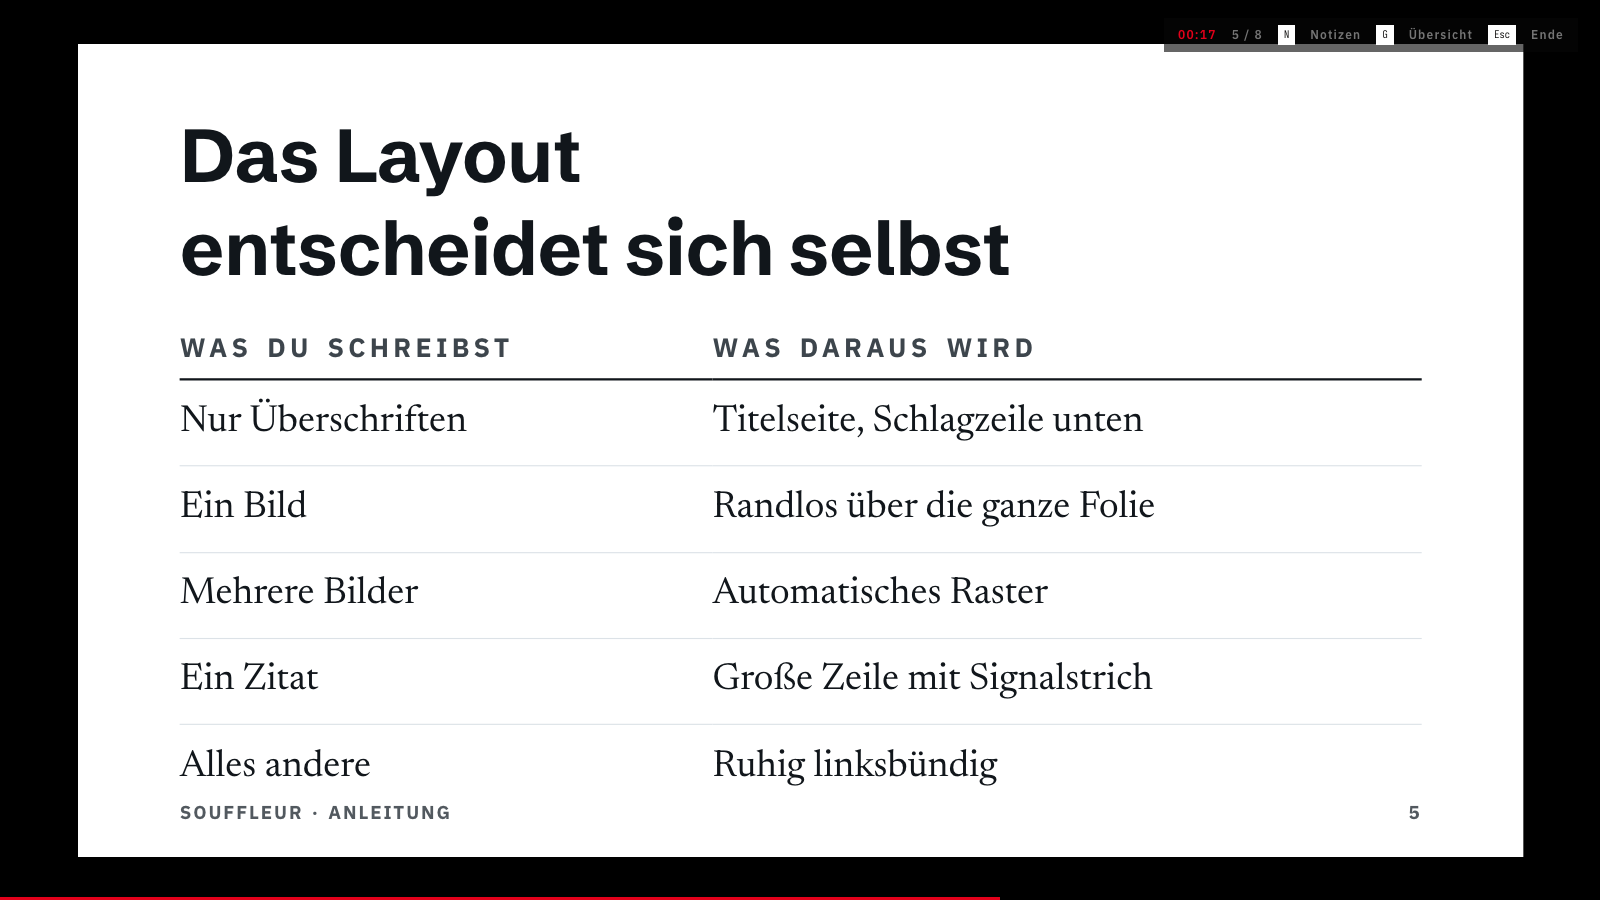
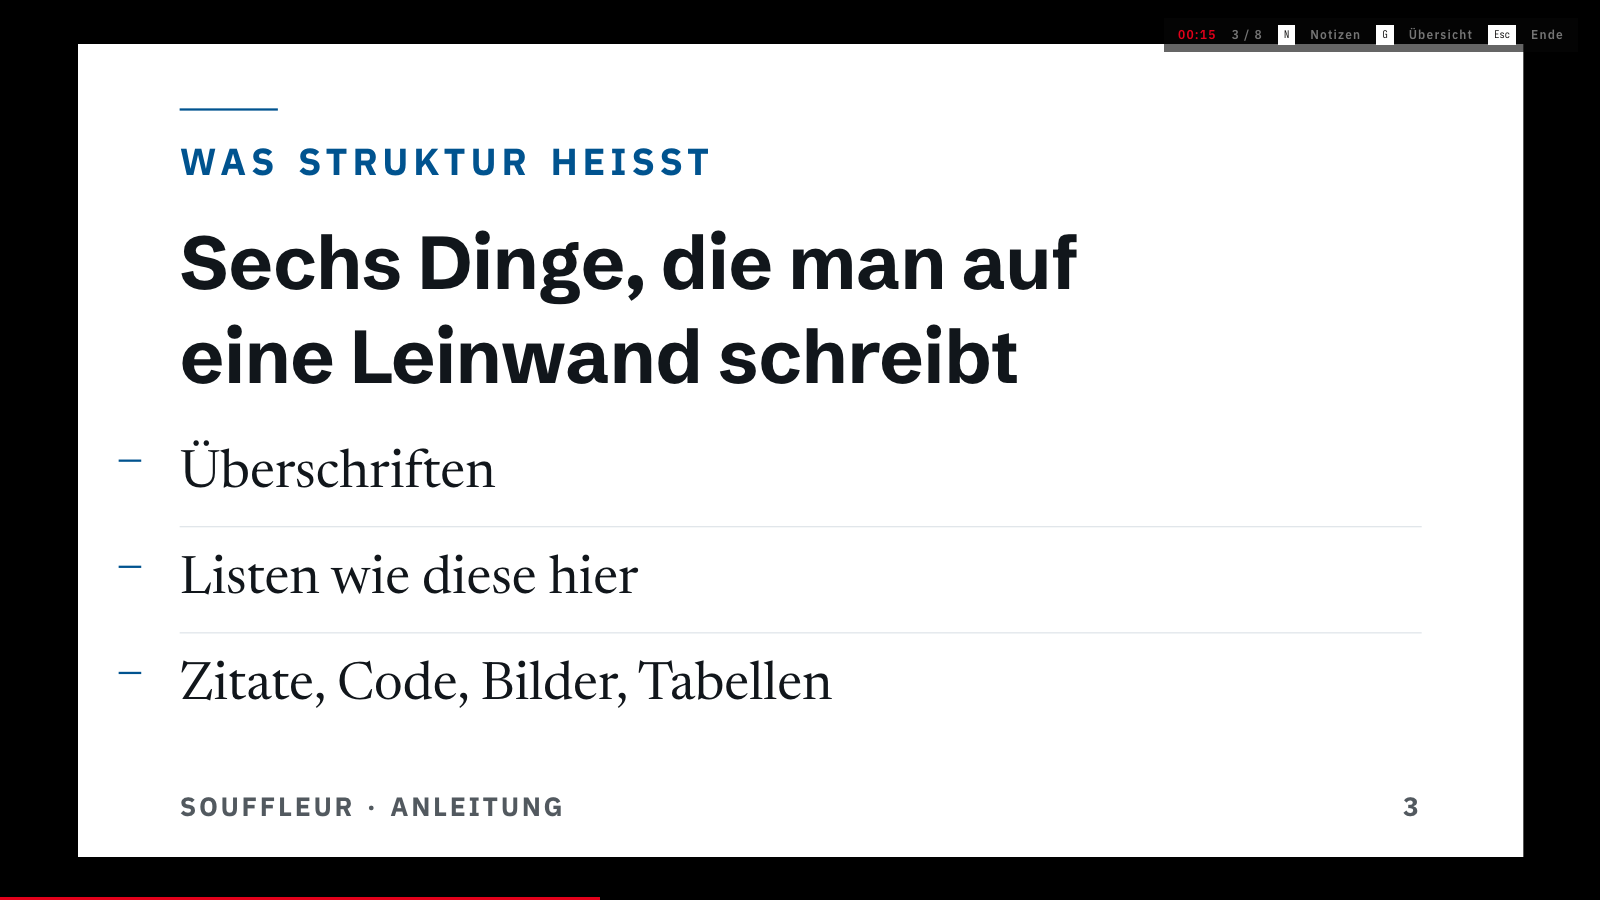
Show the professional theme on a slide that carries its accent
The screenshot was the table slide, the one slide in the sample where the
blue accent has nothing to sit on: the accent is carried by kickers, list
markers, ordered numbers, quote rules and links, and that slide has none of
them. Rendering all eight slides and counting blue pixels puts it at exactly
zero while the others range from 3000 to 5700.

Uses the slide with the kicker and the list instead, which also shows the
grotesque over serif pairing that the table slide did not.

diff --git a/README.md b/README.md
@@ -22,7 +22,7 @@ open souffleur.html
   <a href="docs/heft.png"><img src="docs/heft.png" width="400" alt="heft: a serif headline under a short red rule, on paper white"></a>
   <a href="docs/kontra.png"><img src="docs/kontra.png" width="400" alt="kontra: a heading and a list in the same setting, on a dark ground"></a>
   <a href="docs/plakat.png"><img src="docs/plakat.png" width="400" alt="plakat: condensed capitals filling the slide"></a>
-  <a href="docs/professional.png"><img src="docs/professional.png" width="400" alt="professional: a two column table, grotesque headline over serif text"></a>
+  <a href="docs/professional.png"><img src="docs/professional.png" width="400" alt="professional: a blue kicker above a grotesque headline, with serif list items"></a>
 </p>
 
 ## What it does
